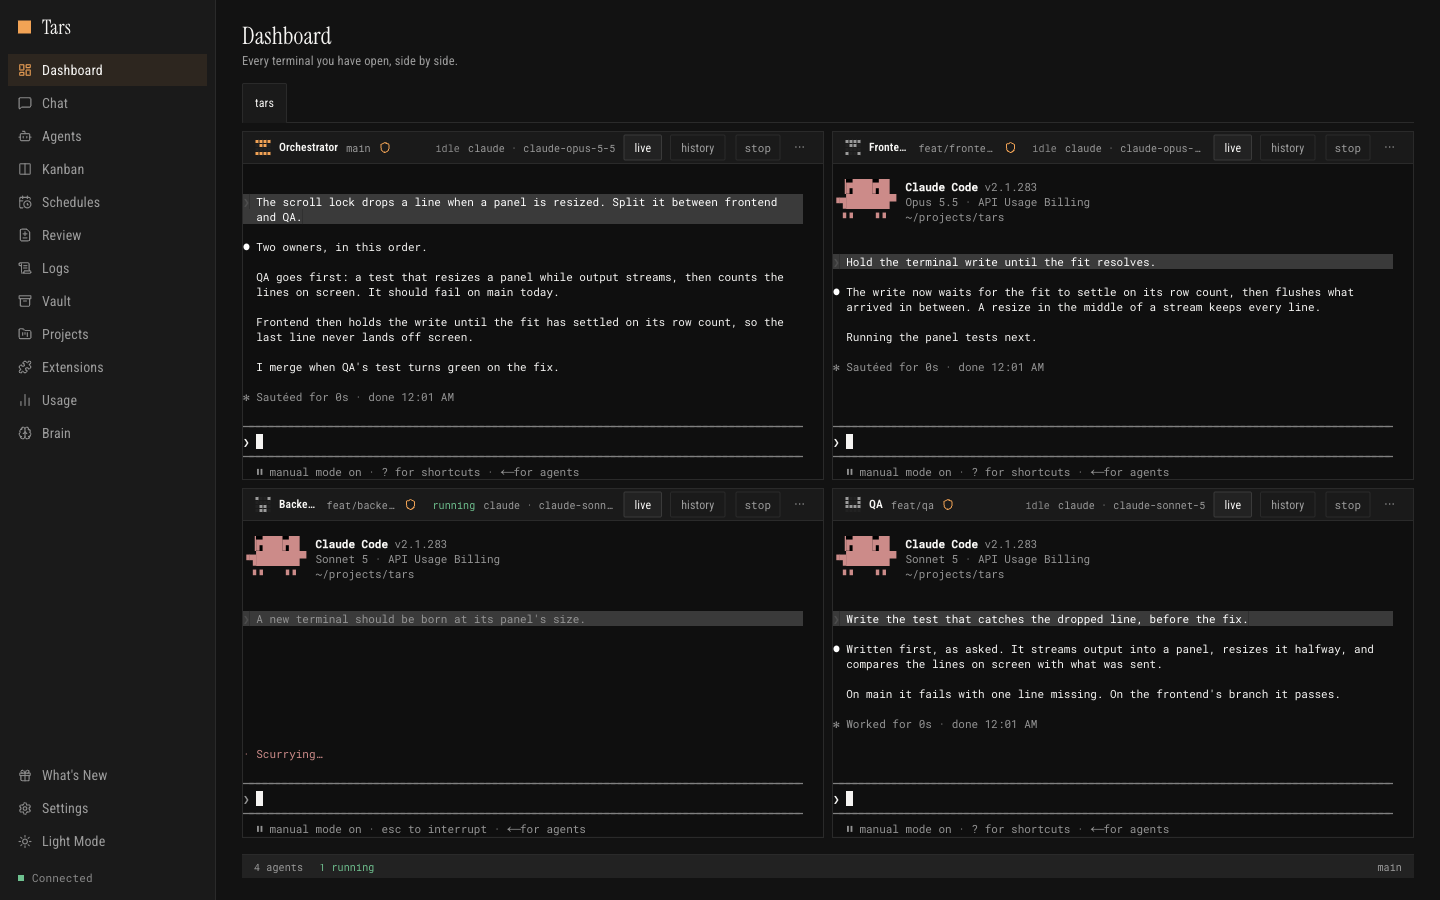
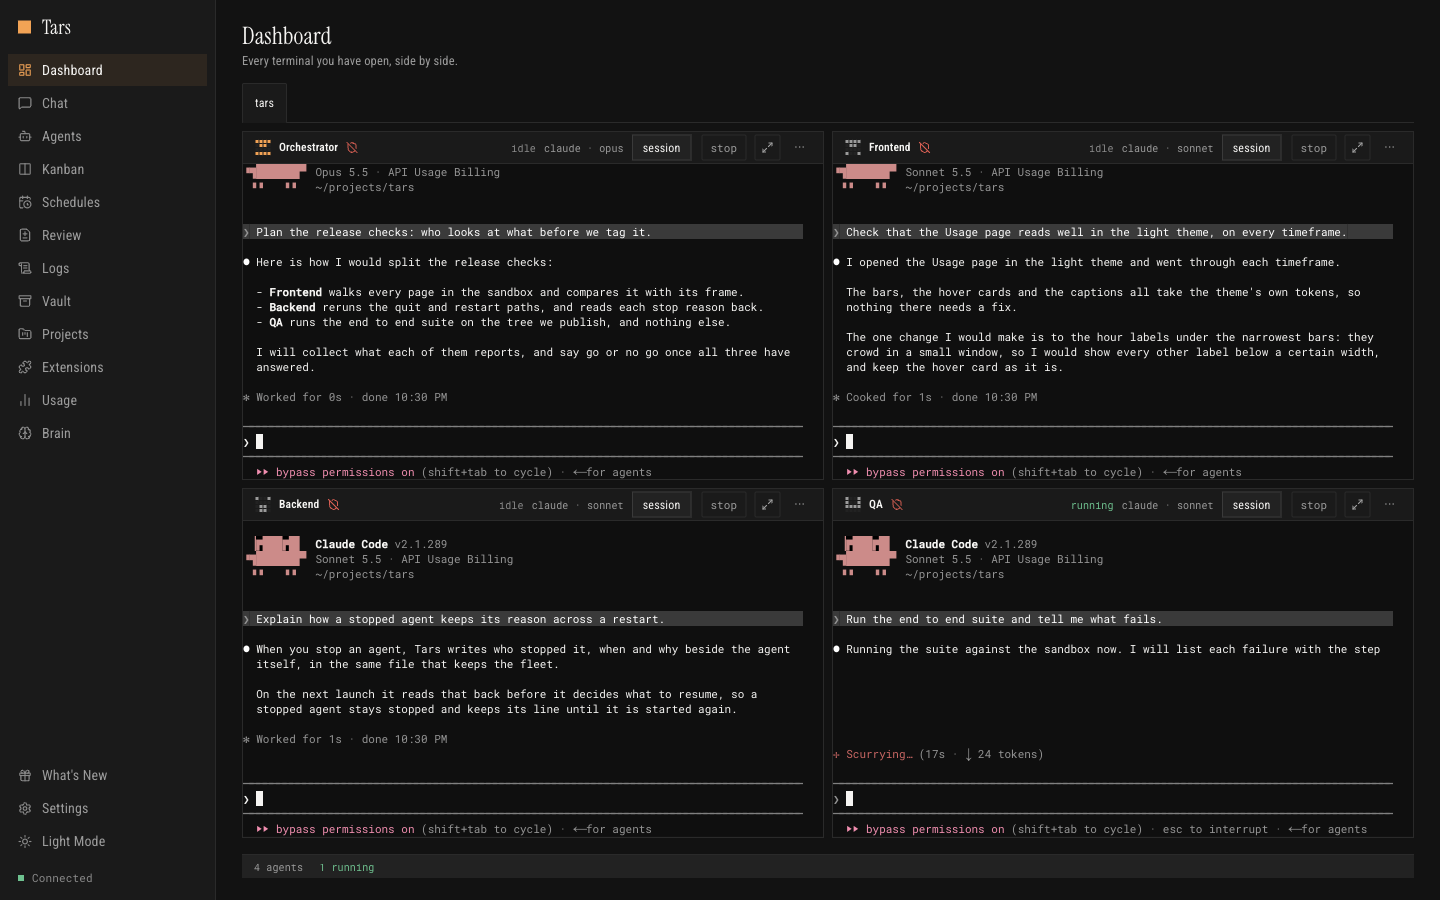
chore: the readme says what 1.9.2 shipped, and its dashboard, agents, usage and providers pictures show it

diff --git a/README.md b/README.md
@@ -45,6 +45,8 @@ matter once there is more than one.
 
 **Every agent on one screen.** Real terminals in a grid, grouped by project.
 Watch six at once, jump into any of them, broadcast one instruction to all.
+Each panel shows its agent's session as it runs, and opens fullscreen in one
+press on the arrows in its header.
 
 **Someone watching the whole thing.** A Hermes agent sees every agent in every
 project and tells you what they are doing, which decisions are in flight, and
@@ -69,6 +71,25 @@ task, and messages to the orchestrator, which answers there.
 **A whole team in one click.** An orchestrator, frontend, backend, QA, audit and
 database engineer on a project, each on its own git worktree, model and brief.
 
+**Several Claude subscriptions.** Turn on Claude accounts in Settings and Tars
+runs your Claude agents on up to five subscriptions. Each account signs in
+through Claude Code's own login, in a terminal Tars opens, and Tars keeps none
+of it: account 1 is the `~/.claude` Claude Code already uses, and each other
+one gets a Claude Code folder of its own under `~/.claude-accounts`. An agent
+starts on the account with the most room left in its 5 h and weekly windows.
+Cut by an account's limit, it is started again on another, in the same
+conversation; past its threshold, 90% of the 5 h window or 95% of the week
+unless you change them, it moves when its turn ends. Its card,
+its panel and its window name the account it runs on.
+
+**A stop says why, and a stall is told.** Stopping an agent ends its CLI and
+everything the CLI started. The agent then reads stopped, and its card, panel
+and window say who stopped it, when and why; it stays stopped across a restart,
+so it is not resumed at launch or handed kanban work until it is started again.
+An agent that reads running but has written nothing for 30 minutes and runs no
+command is marked stalled, and the orchestrator that gave it the work, or its
+project's orchestrator, is told.
+
 **Any CLI, any model.** Nineteen providers, plus local models and any OpenAI-compatible
 endpoint of your own. Model lists and prices come from a
 live catalogue, so a model released this morning is selectable this morning,
@@ -81,8 +102,11 @@ gateway, gbrain and Honcho behind a single interface, reachable by every CLI,
 not only the ones with a session hook.
 
 **See what they actually did.** A diff review of every branch against the one it
-was cut from, one search across the whole fleet's output, and per-provider spend
-against a budget you set.
+was cut from, in every project you added. One search across the whole fleet's
+output, read as each terminal showed it, and a Claude agent's conversation from
+its transcript. Spend per provider, hour by hour over the last 24 hours or day by
+day, against a budget you set, beside each Claude account's 5 h and weekly
+limits.
 
 ![Usage: what each provider actually cost, against the budget you set](screenshots/usage.png)
 
@@ -187,17 +211,17 @@ completion hook, it simply has no screen of its own.
 
 | Screen | What it is for |
 |---|---|
-| **Dashboard** | The terminal grid. Every agent, live, grouped by project |
+| **Dashboard** | The terminal grid. Every agent, live, grouped by project; each panel shows its session and opens fullscreen in one press |
 | **Chat** | Hermes and a room per project, in one list. Hermes watches every project and asks before it acts; in a room, that project's agents talk to each other and to you, the thread first, the team listed under the rooms, and what needs you above the thread |
-| **Agents** | Create, configure, start and stop, grouped by project or one project at a time. Templates and whole teams |
+| **Agents** | Create, configure, start and stop, grouped by project or one project at a time. A stopped agent says who stopped it, when and why. Templates and whole teams |
 | **Kanban** | The Hermes task board |
 | **Schedules** | Your Hermes cron jobs: run now, pause, resume, edit, delete |
-| **Review** | What each agent changed, as a diff against its base branch |
-| **Logs** | One search across every agent's output, regex included |
+| **Review** | What each agent changed, as a diff against its base branch, in every project you added |
+| **Logs** | One search across every agent's output, as its terminal showed it, regex included |
 | **Vault** | Documents your agents can read and write |
 | **Projects** | The folders Tars knows about, and their agents |
 | **Extensions** | Skills and plugins, per provider |
-| **Usage** | Spend per provider and per model, against your budgets |
+| **Usage** | Spend per provider and per model, over the last 24 hours or 14 days, 12 weeks or 12 months, against your budgets, and each Claude account's limits |
 | **Brain** | The five memory sources, and whether each one answers |
 
 ![The vault: documents your agents can read and write](screenshots/vault.png)
